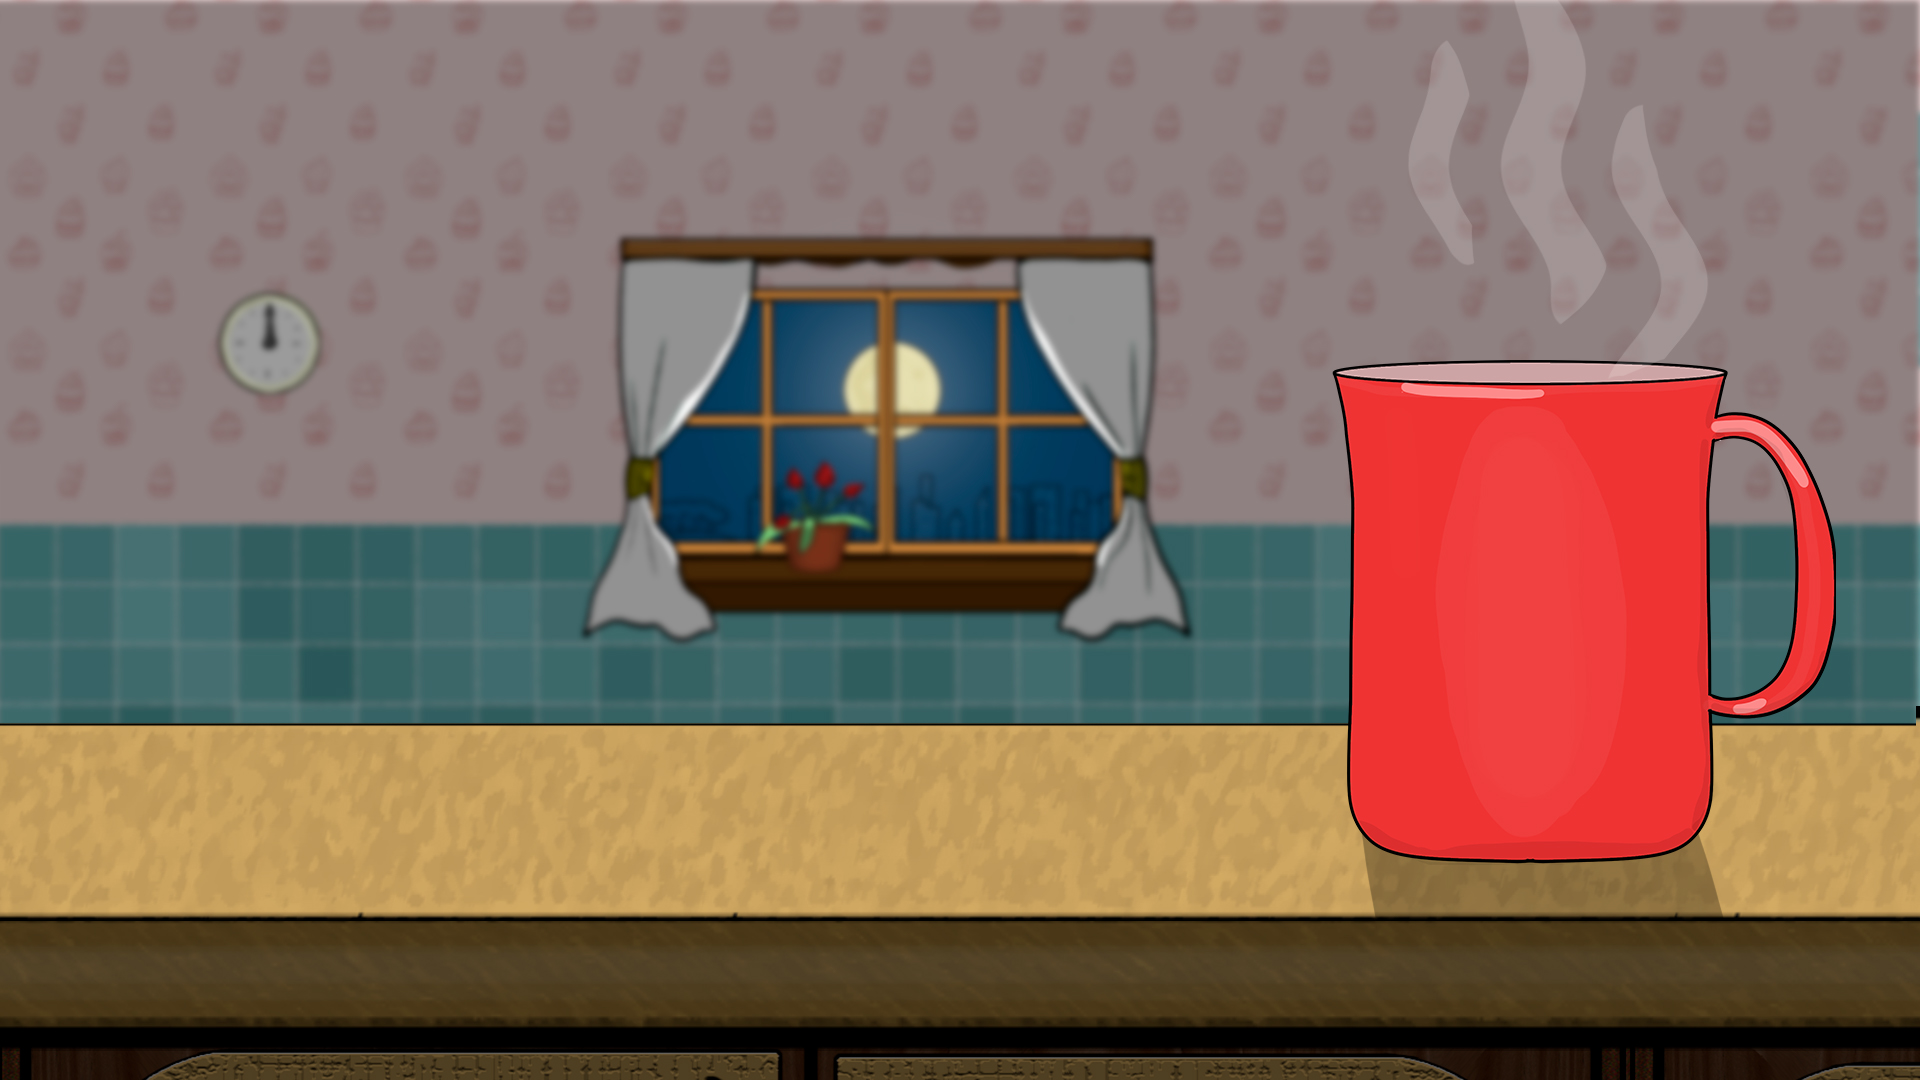
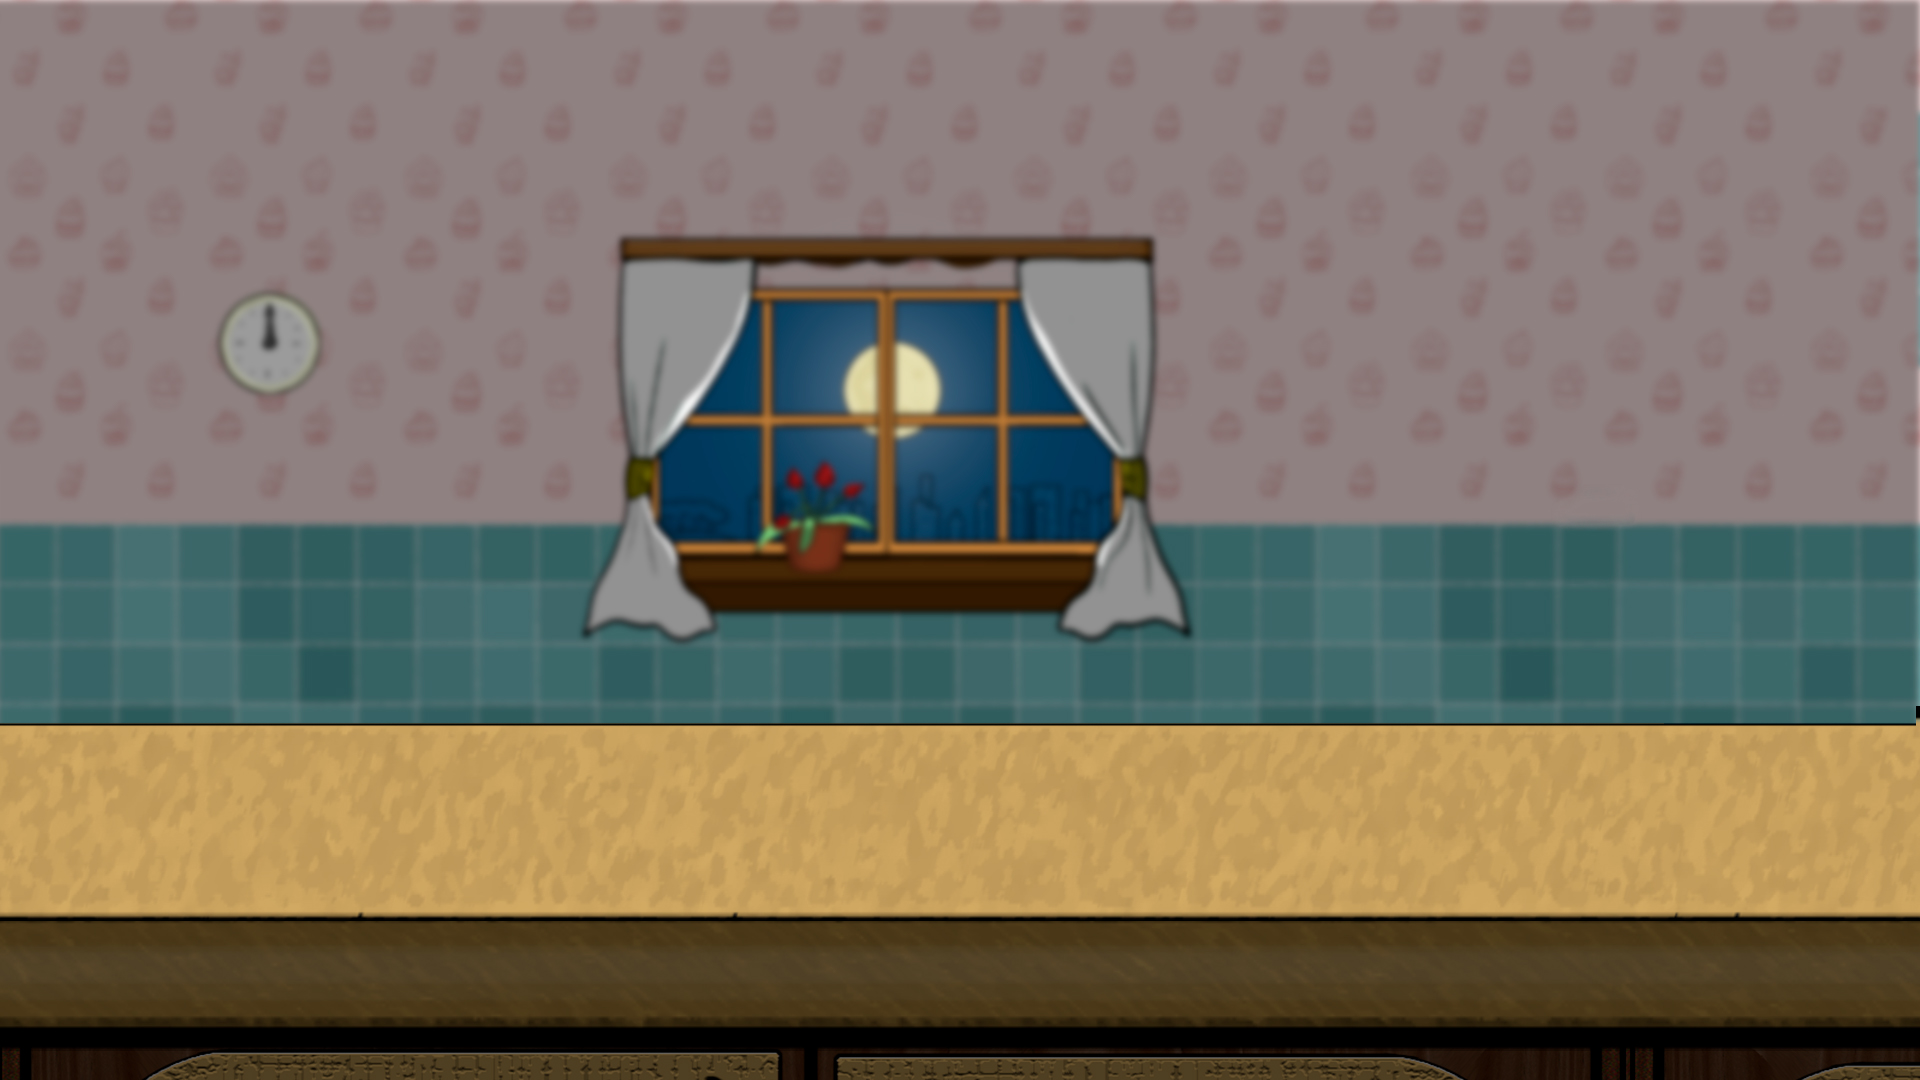
(refactor) move cup to new actor

Changed region(s): [[0.6875, 0.3361, 0.9688, 0.8556]]

diff --git a/core/src/com/run/cookie/run/game/actors/game_over_screen/Cup.kt b/core/src/com/run/cookie/run/game/actors/game_over_screen/Cup.kt
@@ -1,0 +1,25 @@
+package com.run.cookie.run.game.actors.game_over_screen
+
+import com.badlogic.gdx.assets.AssetManager
+import com.badlogic.gdx.graphics.Color
+import com.badlogic.gdx.graphics.g2d.Batch
+import com.run.cookie.run.game.api.GameActor
+import com.run.cookie.run.game.data.Assets
+import com.run.cookie.run.game.data.Descriptors
+
+class Cup(manager : AssetManager) : GameActor() {
+    private val texture = manager.get(Descriptors.environment)
+    private val region = texture.findRegion(Assets.EnvironmentAtlas.CUP)
+
+    init {
+        width = region.originalWidth.toFloat()
+        height = region.originalHeight.toFloat()
+        x = 1330f
+        y = 165f
+    }
+
+    override fun draw(batch: Batch?, parentAlpha: Float) {
+        batch!!.color = Color.WHITE
+        batch.draw(region, x, y, width, height)
+    }
+}

diff --git a/core/src/com/run/cookie/run/game/screens/GameOverScreen.kt b/core/src/com/run/cookie/run/game/screens/GameOverScreen.kt
@@ -47,6 +47,7 @@ class GameOverScreen(params: Map<ScreenManager.Param, Any>) : GameScreen(params)
         val background = Background(manager)
         val finalAction = if (wasWinGame == true) Together(manager) else CookieRests(manager)
         val restartIcon = RestartIcon(manager)
+        val cup = Cup(manager)
         val scores = Scores(manager, score)
         val topScores = GameOverMenuIcon(manager, 40f, 780f, Assets.MainMenuAtlas.TOP_SCORES)
         val awards = GameOverMenuIcon(manager, 70f, 580f, Assets.MainMenuAtlas.AWARDS)
@@ -55,6 +56,7 @@ class GameOverScreen(params: Map<ScreenManager.Param, Any>) : GameScreen(params)
 
         stageBackground.addActor(background)
         stage.apply {
+            addActor(cup)
             addActor(finalAction)
             addActor(restartIcon)
             addActor(scores)

diff --git a/core/src/com/run/cookie/run/game/data/Assets.kt b/core/src/com/run/cookie/run/game/data/Assets.kt
@@ -102,6 +102,7 @@ class Assets {
             const val ICE_PUDDLE = "ice_puddle"
             const val PUSHPIN = "pushpin"
             const val BREAD = "bread"
+            const val CUP = "cup"
         }
     }
 
